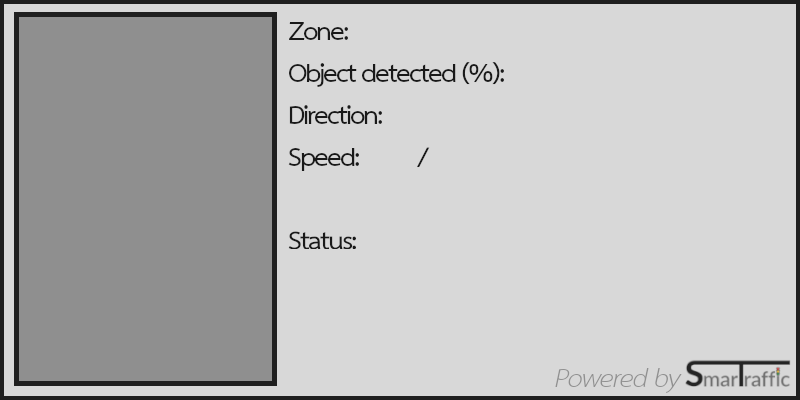
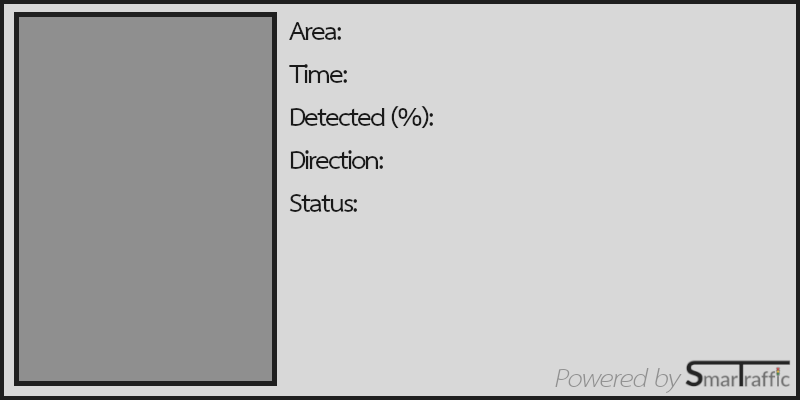
Update 13.05

diff --git a/main.py b/main.py
@@ -5,18 +5,19 @@ import json
 import time
 import copy
 import os
+import calendar
 
 # Import camera settings
 with open('CAMERA_SETTINGS.json', 'r') as f:
     CAMERA_SETTINGS = json.load(f)
-        
-def run(source, dp, sts):
+
+def start(source, dp, sts):
 
     # Prepare the object recognition system (YOLOv4)
-    net = cv2.dnn.readNet('yolov4.weights', 'yolov4.cfg')
+    net = cv2.dnn.readNet('yolo/yolov4.weights', 'yolo/yolov4.cfg')
     
     classes = list()
-    with open('coco.names', 'r') as f:
+    with open('yolo/coco.names', 'r') as f:
         classes = f.read().splitlines()
 
     video = Video(net, classes, source, dp, sts)
@@ -29,23 +30,27 @@ def run(source, dp, sts):
     detect.start()
     play.start()
 
-    timeout = 5
     while True:
         if play.exitcode == 0 and not len(os.listdir('tmp')):
             os.kill(detect.pid, 9)
-            timeout = 0
             break
-        time.sleep(timeout)
+        time.sleep(3)
 
 class Video:
 
-    def __init__(self, net, classes, source, detection_point, stats):
+    def __init__(self, ntt, clss, source, dp, sts):
 
-        self.net = net
-        self.classes = classes
+        self.net = ntt
+        self.classes = clss
         self.camera = source
-        self.detection_point = detection_point
-        self.stats = stats
+        self.detection_point = dp
+        self.stats = sts
+
+        # Type of vehicle that can be seen on the road
+        self.vehicles = {'Bicycle', 'Car', 'Motorbike', 'Bus', 'Truck', 'Boat'}
+
+        # Common thing to be aware of during drive (other person and animals in general)
+        self.other_object = {'Person', 'Cat', 'Dog', 'Horse', 'Sheep', 'Cow', 'Bear'}
 
     def play(self):
 
@@ -56,9 +61,23 @@ class Video:
         # Cam variables
         passing_SX = False
         passing_DX = False
-        vehicle_ID = 0
+        vehicle_SX_ID = 0
+        vehicle_DX_ID = 0
         vehicle_count_SX = 0
         vehicle_count_DX = 0
+        
+        # Set timer 
+        date = CAMERA_SETTINGS[source[6 : len(source) - 4]]["Date-time"][ : CAMERA_SETTINGS[source[6 : len(source) - 4]]["Date-time"].index('-') - 1].split('/')
+        day = date[0]
+        month = date[1]
+        year = date[2]
+        date = '{}/{}/{}'.format(day, month, year)
+        clock = CAMERA_SETTINGS[source[6 : len(source) - 4]]["Date-time"][CAMERA_SETTINGS[source[6 : len(source) - 4]]["Date-time"].index('-') + 2 : ].split(':')
+        hh = int(clock[0])
+        mm = int(clock[1])
+        ss = int(clock[2])
+        clock = '{}:{}:{}'.format(hh, mm, ss)
+        
         update_interval = 0
         FPS = '-'
 
@@ -114,7 +133,7 @@ class Video:
                 if cv2.contourArea(contours) >= CAMERA_SETTINGS[source[6 : len(source) - 4]]["Surface"]:
                     
                     x, y, w, h = cv2.boundingRect(contours)
-
+                    
                     # Animate detection point
                     if CAMERA_SETTINGS[source[6 : len(source) - 4]]["DetectionPoint"][1] in range(CAMERA_SETTINGS[source[6 :len(source) - 4]]["ROI_SX"][0] + y, CAMERA_SETTINGS[source[6 : len(source) - 4]]["ROI_SX"][0] + y + h):
                         passing_DX = True
@@ -124,26 +143,29 @@ class Video:
                 cv2.line(frame, (CAMERA_SETTINGS[source[6 : len(source) - 4]]["DetectionPoint"][0], CAMERA_SETTINGS[source[6 : len(source) - 4]]["DetectionPoint"][1]),
                                 (CAMERA_SETTINGS[source[6 : len(source) - 4]]["DetectionPoint"][2], CAMERA_SETTINGS[source[6 : len(source) - 4]]["DetectionPoint"][3]), (0, 0, 255), 2)
             
+            # Take a picture of the left lane (ROI)
             if passing_SX:
-                if not os.path.isfile('tmp/{}.png'.format(str(vehicle_ID) + '_Coming')):
+                if not os.path.isfile('tmp/{}.png'.format(str(vehicle_SX_ID) + '_C')):
                     vehicle_count_SX += 1
-                    cv2.imwrite('tmp/{}.png'.format(str(vehicle_ID) + '_Coming'), original[CAMERA_SETTINGS[source[6 : len(source) - 4]]["Area_SX"][0] : CAMERA_SETTINGS[source[6 : len(source) - 4]]["Area_SX"][1],
-                                                                                       CAMERA_SETTINGS[source[6 : len(source) - 4]]["Area_SX"][2] : CAMERA_SETTINGS[source[6 : len(source) - 4]]["Area_SX"][3]])
+                    cv2.imwrite('tmp/{}.png'.format(str(vehicle_SX_ID) + '_C' + '{}{}{}{}{}{}'.format(day, month, year, hh, mm, ss)), original[CAMERA_SETTINGS[source[6 : len(source) - 4]]["Area_SX"][0] : CAMERA_SETTINGS[source[6 : len(source) - 4]]["Area_SX"][1],
+                                                                                                                                                        CAMERA_SETTINGS[source[6 : len(source) - 4]]["Area_SX"][2] : CAMERA_SETTINGS[source[6 : len(source) - 4]]["Area_SX"][3]])
                 if self.detection_point:
                     cv2.line(frame, (CAMERA_SETTINGS[source[6 : len(source) - 4]]["DetectionPoint"][0], CAMERA_SETTINGS[source[6 : len(source) - 4]]["DetectionPoint"][1]),
                                     (CAMERA_SETTINGS[source[6 : len(source) - 4]]["DetectionPoint"][0] + ((CAMERA_SETTINGS[source[6 : len(source) - 4]]["DetectionPoint"][2] - CAMERA_SETTINGS[source[6 : len(source) - 4]]["DetectionPoint"][0]) // 2), CAMERA_SETTINGS[source[6 : len(source) - 4]]["DetectionPoint"][3]), (255, 255, 255), 2)
             
+            # Take a picture of the right lane (ROI)
             if passing_DX:
-                if not os.path.isfile('tmp/{}.png'.format(str(vehicle_ID) + '_Leaving')):
+                if not os.path.isfile('tmp/{}.png'.format(str(vehicle_DX_ID) + '_L' + '{}{}{}{}{}{}'.format(day, month, year, hh, mm, ss))):
                     vehicle_count_DX += 1
-                    cv2.imwrite('tmp/{}.png'.format(str(vehicle_ID) + '_Leaving'), original[CAMERA_SETTINGS[source[6 : len(source) - 4]]["Area_DX"][0] : CAMERA_SETTINGS[source[6 : len(source) - 4]]["Area_DX"][1],
-                                                                                        CAMERA_SETTINGS[source[6 : len(source) - 4]]["Area_DX"][2] : CAMERA_SETTINGS[source[6 : len(source) - 4]]["Area_DX"][3]])
+                    cv2.imwrite('tmp/{}.png'.format(str(vehicle_DX_ID) + '_L' + '{}{}{}{}{}{}'.format(day, month, year, hh, mm, ss)), original[CAMERA_SETTINGS[source[6 : len(source) - 4]]["Area_DX"][0] : CAMERA_SETTINGS[source[6 : len(source) - 4]]["Area_DX"][1],
+                                                                                            CAMERA_SETTINGS[source[6 : len(source) - 4]]["Area_DX"][2] : CAMERA_SETTINGS[source[6 : len(source) - 4]]["Area_DX"][3]])
                 if self.detection_point:
                     cv2.line(frame, (CAMERA_SETTINGS[source[6 : len(source) - 4]]["DetectionPoint"][0] + ((CAMERA_SETTINGS[source[6 : len(source) - 4]]["DetectionPoint"][2] - CAMERA_SETTINGS[source[6 : len(source) - 4]]["DetectionPoint"][0]) // 2), CAMERA_SETTINGS[source[6 : len(source) - 4]]["DetectionPoint"][1]),
                                     (CAMERA_SETTINGS[source[6 : len(source) - 4]]["DetectionPoint"][2], CAMERA_SETTINGS[source[6 : len(source) - 4]]["DetectionPoint"][3]), (255, 255, 255), 2)
-                
-            if not passing_SX and not passing_DX:
-                vehicle_ID += 1
+            
+            # Update vehicle ID
+            if not passing_SX: vehicle_SX_ID += 1
+            if not passing_DX: vehicle_DX_ID += 1
             
             passing_SX = False
             passing_DX = False
@@ -159,15 +181,16 @@ class Video:
             update_interval += end_update - start_update
             if update_interval >= 1:
                 FPS = int(1 / round(end_update - start_update, 3))
+                year, month, day, hh, mm, ss = Video.timer(self, int(year), int(month), int(day), int(hh), int(mm), int(ss))
                 update_interval = 0
             
-            # display live statistics on the screen 
+            # Display live statistics on the screen 
             if self.stats:
                 cv2.rectangle(frame, (5, 5), (250, 110), (145, 145, 145), -1)
                 cv2.putText(frame, 'FPS: {}'.format(FPS), (8, 25), cv2.FONT_HERSHEY_PLAIN, 1.5, (0, 0, 0), 1)
-                cv2.putText(frame, 'In ingresso: {}'.format(vehicle_count_SX), (8, 50), cv2.FONT_HERSHEY_PLAIN, 1.5, (0, 0, 0), 1)
-                cv2.putText(frame, 'In uscita: {}'.format(vehicle_count_DX), (8, 75), cv2.FONT_HERSHEY_PLAIN, 1.5, (0, 0, 0), 1)
-                cv2.putText(frame, 'Previsioni traffico: {}'.format('scorrevole'), (8, 100), cv2.FONT_HERSHEY_PLAIN, 1.5, (0, 0, 0), 1)
+                cv2.putText(frame, 'Coming: {}'.format(vehicle_count_SX), (8, 50), cv2.FONT_HERSHEY_PLAIN, 1.5, (0, 0, 0), 1)
+                cv2.putText(frame, 'Leaving: {}'.format(vehicle_count_DX), (8, 75), cv2.FONT_HERSHEY_PLAIN, 1.5, (0, 0, 0), 1)
+                cv2.putText(frame, '{}/{}/{} - {}:{}:{}'.format(day, month, year, hh, mm, ss), (780, 795), cv2.FONT_HERSHEY_DUPLEX, 0.7, (255, 255, 255), 1)
 
             # Show the video (and layer)
             cv2.imshow(CAMERA_SETTINGS[source[6 : len(source) - 4]]["Title"], frame)
@@ -176,14 +199,15 @@ class Video:
 
     def detector(self):
 
-        detecting = True
+        while True:
 
-        while detecting:
-            
+            # Check if there are photo to analyse
             if len(os.listdir('tmp')):
 
+                # Prepare the base for the ticket to generate
                 base = cv2.imread('ticket.png')
 
+                # Make detection for each photo
                 for photo in os.listdir('tmp'):
                     
                     img = cv2.imread('tmp/{}'.format(photo))
@@ -226,51 +250,107 @@ class Video:
 
                     ticket = base.copy()
                     
+                    # One object detected in the photo
                     if len(indexes) == 1:
 
                         x, y, w, h = boxes[indexes.flatten()[0]]
-                        obj = self.classes[class_ids[indexes.flatten()[0]]]
-                        confidence = round(confidences[indexes.flatten()[0]] * 100, 1)
-                        direction = photo[photo.index('_') + 1 : len(photo) - 4]
-                        
+                       
+                        obj = str(self.classes[class_ids[indexes.flatten()[0]]]) + ' - '
+                        confidence = str(round(confidences[indexes.flatten()[0]] * 100, 1)) + '%'
+                        if photo[photo.index('_') + 1 : len(photo) - 4] == 'C':
+                            direction = 'Coming'
+                        else:
+                            direction = 'Leaving'  
                         cv2.rectangle(img, (x, y), (x + w, y + h), (0, 255, 0), 2)
-                        # ticket[17 : 381, 19 : 272] = cv2.resize(img, (253, 364))
-                        # cv2.putText(ticket, '{}'.format(CAMERA_SETTINGS[self.camera[6 : len(self.camera) - 4]]["Title"]), (355, 38), cv2.FONT_HERSHEY_SIMPLEX, 1, (10, 10, 10), 1)
-                        # cv2.putText(ticket, '{} - {}%'.format(obj, confidence), (515, 81), cv2.FONT_HERSHEY_SIMPLEX, 1, (10, 10, 10), 1)
-                        # cv2.putText(ticket, '{}'.format(photo[photo.index('_') + 1 : len(photo) - 4]), (393, 123), cv2.FONT_HERSHEY_SIMPLEX, 1, (10, 10, 10), 1)
+                        
+                        if obj[ : len(obj) - 3] not in self.vehicles:
+                            if obj[ : len(obj) - 3] in self.other_object :
+                                status = 'ATTENTION: {} on the road'.format(obj[ : len(obj) - 3])
+                            else:
+                                status = 'ATTENTION: unknow object on the road'
+                        else:
+                            status = 'OK'
 
                     # Manage detection anomalies
                     else:
                         
-                        # No object detected
+                        # No object detected in the photo
                         if len(indexes) == 0:
 
-                            obj, confidence = '-'
-                            direction = photo[photo.index('_') + 1 : len(photo) - 4]
+                            obj = '-'
+                            confidence = ''
+                            if photo[photo.index('_') + 1 : len(photo) - 4] == 'C':
+                                direction = 'Coming'
+                            else:
+                                direction = 'Leaving'
+                            status = 'ERROR: no object detected'
 
-                        # Multiple object detected
+                        # Multiple object detected in the photo
                         else:
-                            print('Multiple object detection')
 
+                            for i in indexes.flatten():
+                                x, y, w, h = boxes[i]
+                                cv2.rectangle(img, (x, y), (x + w, y + h), (0, 255, 0), 2)
+                            
+                            obj = '-'
+                            confidence = ''
+                            if photo[photo.index('_') + 1 : len(photo) - 4] == 'C':
+                                direction = 'Coming'
+                            else:
+                                direction = 'Leaving'
+                            status = 'ERROR: multiple object detected'
+
+                    # Compile and generate the ticket 
                     ticket[17 : 381, 19 : 272] = cv2.resize(img, (253, 364))
-                    cv2.putText(ticket, '{}'.format(CAMERA_SETTINGS[self.camera[6 : len(self.camera) - 4]]["Title"]), (355, 38), cv2.FONT_HERSHEY_SIMPLEX, 1, (10, 10, 10), 1)
-                    cv2.putText(ticket, '{} - {}%'.format(obj, confidence), (515, 81), cv2.FONT_HERSHEY_SIMPLEX, 1, (10, 10, 10), 1)
-                    cv2.putText(ticket, '{}'.format(direction), (393, 123), cv2.FONT_HERSHEY_SIMPLEX, 1, (10, 10, 10), 1)
+                    cv2.putText(ticket, '{}'.format(CAMERA_SETTINGS[self.camera[6 : len(self.camera) - 4]]["Title"]), (355, 38), cv2.FONT_HERSHEY_SIMPLEX, 0.8, (10, 10, 10), 1)
+                    cv2.putText(ticket, '{}{}'.format(obj, confidence), (515, 81), cv2.FONT_HERSHEY_SIMPLEX, 0.8, (10, 10, 10), 1)
+                    cv2.putText(ticket, '{}'.format(direction), (393, 123), cv2.FONT_HERSHEY_SIMPLEX, 0.8, (10, 10, 10), 1)
+                    cv2.putText(ticket, '{}'.format(status), (300, 280), cv2.FONT_HERSHEY_SIMPLEX, 0.8, (10, 10, 10), 1)
 
-                    # Save new (generated) ticket
+                    # Save the ticket
                     cv2.imwrite('detections/{}.png'.format(len(os.listdir('detections')) + 1), ticket)
                     
-                    # Delete temporary frame
+                    # Delete original photo
                     os.remove('tmp/{}'.format(photo))
                     
             else:
-                ''' Set a dynamic value for sleep '''
                 time.sleep(5)
 
-#     def traffic_conditions(self):
-#         # Determina le condizioni del traffico
+    def timer(self, year, month, day, h, m, s):
 
-#     def speed_detector(self):
-#         # Determina le condizioni del traffico
+        # Update the timer on the camera screen
 
-run('video/camera_1.mp4', 1, 1)
+        if s < 59:
+            s += 1
+        else:
+            s = 0
+            if m < 59:
+                m += 1
+            else:
+                m = 0
+                if h < 23:
+                    h += 1
+                else:
+                    h = 0
+                    if day < calendar.monthrange(year, month)[1]:
+                        day += 1
+                    else:
+                        day = 1
+                        if month < 12:
+                            month += 1
+                        else:
+                            month = 1
+                            year += 1
+
+        if s < 10: s = '0' + str(s)
+        if m < 10: m = '0' + str(m)
+        if h < 10: h = '0' + str(h)
+        if day < 10: day = '0' + str(day)
+        if month < 10: month = '0' + str(month)
+        if year < 10: year = '0' + str(year)
+        
+        return year, month, day, h, m, s
+
+if __name__ == '__main__':
+
+    start('video/camera_1.mp4', 1, 1)
